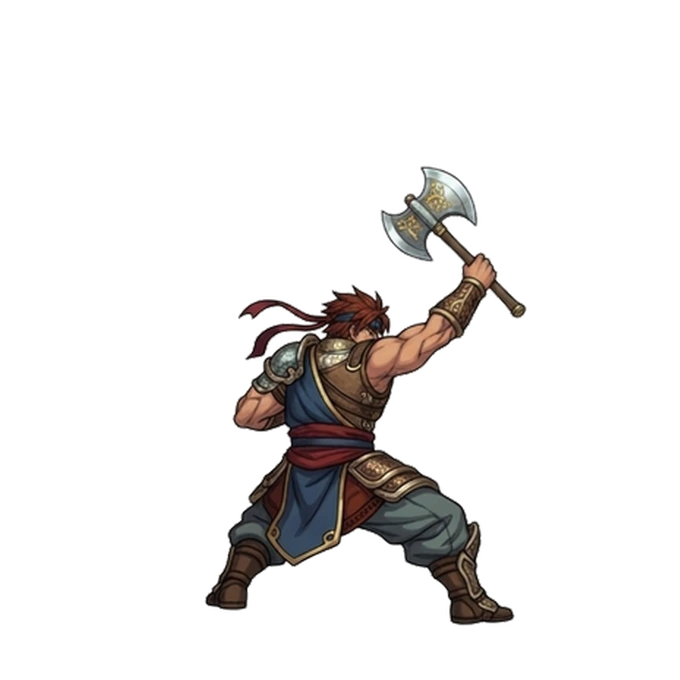
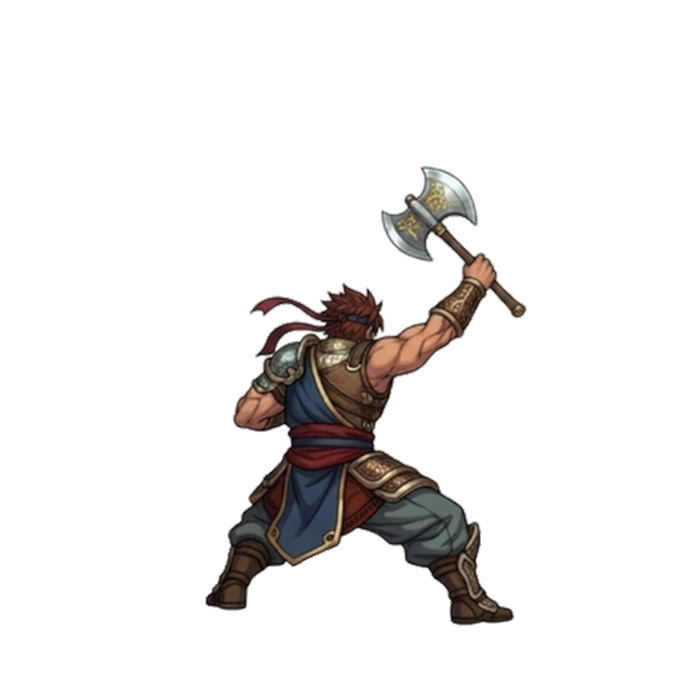
Fix Hano (#001) Frames 1-3 and Lorna (#005) Frames 1-4 strict rear-left back-of-head facing orientation

diff --git a/src/gallery.ts b/src/gallery.ts
@@ -1191,7 +1191,7 @@ class MappingGalleryApp {
                   <div>
                     <div class="mono-tag" style="font-size:10px; color:#fde047; margin-bottom:2px;">💥 Crit Cut-In</div>
                     <img
-                      src="assets/vfx_lab/units/u_${String(entry.id).padStart(3, '0')}/cutin.jpg?v=21"
+                      src="assets/vfx_lab/units/u_${String(entry.id).padStart(3, '0')}/cutin.jpg?v=22"
                       loading="lazy"
                       alt="${entry.nameZh} Cut-In"
                       style="width:100%; aspect-ratio:16/9; object-fit:cover; border-radius:5px; border:1px solid #334155; background:#05080f;"
@@ -1200,7 +1200,7 @@ class MappingGalleryApp {
                   <div>
                     <div class="mono-tag" style="font-size:10px; color:#7dd3fc; margin-bottom:2px;">🖼 HD 6-Frame Sheet</div>
                     <img
-                      src="assets/vfx_lab/units/u_${String(entry.id).padStart(3, '0')}/nb6_sheet.jpg?v=21"
+                      src="assets/vfx_lab/units/u_${String(entry.id).padStart(3, '0')}/nb6_sheet.jpg?v=22"
                       loading="lazy"
                       alt="${entry.nameZh} 6-Frame Sheet"
                       style="width:100%; aspect-ratio:16/9; object-fit:contain; border-radius:5px; background:#ffffff; border:1px solid #334155;"

diff --git a/src/ui/vfxLab.ts b/src/ui/vfxLab.ts
@@ -163,7 +163,7 @@ function loadImg(url: string): Promise<HTMLImageElement> {
   });
 }
 
-const VFX_ASSET_VERSION = '?v=21';
+const VFX_ASSET_VERSION = '?v=22';
 
 export async function loadUnitSlotIntoVfxAssets(
   assets: AssetManager,
